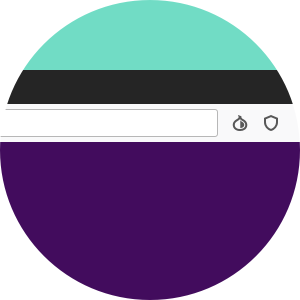
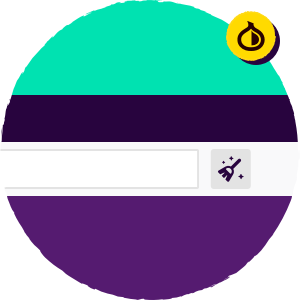
Bug 31768: Introduce toolbar and network settings changes in onboarding
Update the "Tor Network" onboarding page to include a note that
settings can now be accessed via the application preferences and
add an "Adjust Your Tor Network Settings" action button which opens
about:preferences#tor.

Replace the Tor Browser 8.5 "update" onboarding tour with a 9.0 one
that includes the revised "Tor Network" page and a revised "Toolbar"
page. The latter explains that Torbutton's toolbar item has been
removed ("Goodbye Onion Button") and explains how to access the
New Identity feature using the hamburger menu and new toolbar item.

diff --git a/browser/app/profile/000-tor-browser.js b/browser/app/profile/000-tor-browser.js
@@ -316,9 +316,9 @@ pref("browser.download.panel.shown", true);
 pref("dom.securecontext.whitelist_onions", true);
 
 // Onboarding.
-pref("browser.onboarding.tourset-version", 3);
-pref("browser.onboarding.newtour", "welcome,privacy,tor-network,circuit-display,security,expect-differences,onion-services");
-pref("browser.onboarding.updatetour", "toolbar-update-8.5,security-update-8.5");
+pref("browser.onboarding.tourset-version", 4);
+pref("browser.onboarding.newtour", "welcome,privacy,tor-network-9.0,circuit-display,security,expect-differences,onion-services");
+pref("browser.onboarding.updatetour", "toolbar-update-9.0,tor-network-9.0");
 pref("browser.onboarding.skip-tour-button.hide", true);
 
 // prefs to disable jump-list entries in the taskbar on Windows (see bug #12885)

diff --git a/browser/extensions/onboarding/api.js b/browser/extensions/onboarding/api.js
@@ -39,13 +39,12 @@ const PREF_WHITELIST = [
   // Tor Browser tours:
   "onboarding-tour-tor-welcome",
   "onboarding-tour-tor-privacy",
-  "onboarding-tour-tor-network",
+  "onboarding-tour-tor-network-9-0",
   "onboarding-tour-tor-circuit-display",
   "onboarding-tour-tor-security",
   "onboarding-tour-tor-expect-differences",
   "onboarding-tour-tor-onion-services",
-  "onboarding-tour-tor-toolbar-update-8-5",
-  "onboarding-tour-tor-security-update-8-5",
+  "onboarding-tour-tor-toolbar-update-9-0",
 #if 0
 // Firefox tours. To reduce conflicts when rebasing against newer Firefox
 // code, we use the preprocessor to omit this code block.

diff --git a/browser/extensions/onboarding/content/onboarding-tour-agent.js b/browser/extensions/onboarding/content/onboarding-tour-agent.js
@@ -21,6 +21,12 @@ let onClick = evt => {
     case "onboarding-tour-tor-security-button":
       Mozilla.UITour.torBrowserOpenSecurityLevelPanel();
       break;
+    case "onboarding-tour-tor-toolbar-update-9-0-button":
+      Mozilla.UITour.showHighlight("torBrowser-newIdentityButton", "zoom");
+      break;
+    case "onboarding-tour-tor-network-action-button":
+      Mozilla.UITour.openPreferences("tor");
+      break;
 #if 0
 // Firefox onboarding actions. To reduce conflicts when rebasing against
 // newer Firefox code, we use the preprocessor to omit this code block.

diff --git a/browser/extensions/onboarding/content/onboarding.css b/browser/extensions/onboarding/content/onboarding.css
@@ -377,6 +377,10 @@
   color: #420c5d;
 }
 
+.onboarding-tour-description-para2 {
+  margin-top: 16px;
+}
+
 .onboarding-tour-description-suffix {
   margin-top: 6px;
   font-size: 13px;
